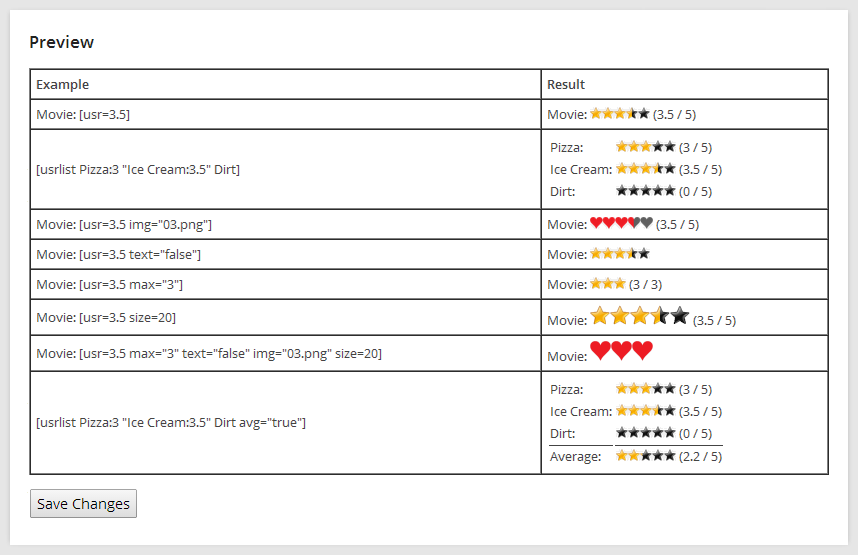
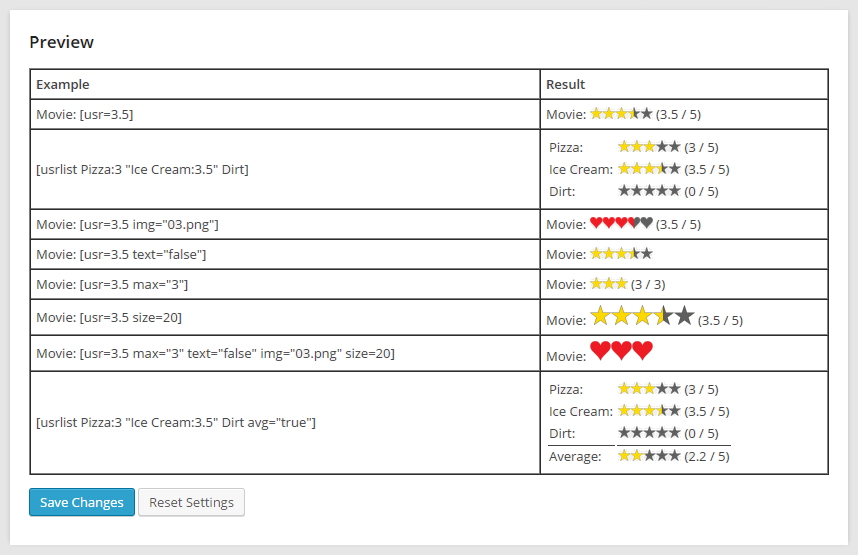
- Proofed that the plugin works with WP 4.0 - Updated locale files and translation document - Updated admin panel
git-svn-id: https://plugins.svn.wordpress.org/universal-star-rating/trunk@1018353 b8457f37-d9ea-0310-8a92-e5e31aec5664

diff --git a/universal-star-rating.php b/universal-star-rating.php
@@ -4,7 +4,7 @@
 Plugin Name: Universal Star Rating
 Plugin URI: http://www.cizero.de/?p=1142
 Description: Adds <code>[usr=10.0]</code> and <code>[usrlist NAME:RATING "ANOTHER NAME:RATING" (...)]</code> shortcode for inserting universal star ratings.
-Version: 1.9.0
+Version: 1.9.1
 Author: Mike Wigge
 Author URI: http://cizero.de
 License: GPL3
@@ -32,6 +32,7 @@ License: GPL3
   - Add some more GFXs
   - Sort GFXs by type
   - Add a Button to the WYSIWYG editor to add a rating to the post
+  - Make language selector dynamic -> cut $usrLocale from $usrLocales to do so
 	
 */
 
@@ -42,13 +43,13 @@ License: GPL3
 //                                                                            //
 //############################################################################//
 
-
 //Including locale files
-include('includes/locales/locale.en');
-include('includes/locales/locale.de');
-include('includes/locales/locale.fr');
-include('includes/locales/locale.it');
-include('includes/locales/locale.es');
+$usrLocales = scandir('../wp-content/plugins/universal-star-rating/includes/locales/');
+foreach($usrLocales as $usrLocale) {
+	if($usrLocale != "." && $usrLocale != ".." && $usrLocale != "locale.temp"){
+		include('includes/locales/'.$usrLocale);
+	}
+}
 
 //Define used names
 $usrPluginName = __("Universal Star Rating", 'universal-star-rating');
@@ -79,7 +80,7 @@ include('includes/shortcodes.php');
 //############################################################################//
 
 //Register options
-add_option('usrVersion', '1.8.0', '', 'yes');
+add_option('usrVersion', '1.9.0', '', 'yes');
 add_option('usrLang', 'en', '', 'yes');
 add_option('usrStarSize', '12', '', 'yes');
 add_option('usrMaxStars', '5', '', 'yes');
@@ -127,53 +128,35 @@ add_action('admin_menu', 'addUsrOptionPage');
 function usrOptionsPage() {
   //globals
   global $MESSAGES;
-  
+	if (isset($_POST['usrOptionsReset'])) {
+		$usrLang = 'en';
+		$usrStarSize = 12;
+		$usrMaxStars = 5;
+		$usrStarText = 'true';
+		$usrCalcAverage = 'false';
+		$usrPermitShortcodedComments = 'false';
+		$usrSchemaOrg = 'false';
+		$usrCustomImagesFolder = 'cusri';
+		$usrStarImage = '01.png';
+		updateUSRSettings($usrLang, $usrStarSize, $usrMaxStars, $usrStarText, $usrCalcAverage, $usrPermitShortcodedComments, $usrSchemaOrg, $usrCustomImagesFolder, $usrStarImage);
+	
+		//Tell user that options are updated
+		echo '<div class="updated fade"><p><strong>' . __($MESSAGES['INFO']['SettingsUpdated']['en'], "universal-star-rating") . '</strong></p></div>';
+	}
 	if (isset($_POST['usrOptionsUpdate'])) {
 		
-		//Update user language
 		$usrLang = $_POST["usrLang"];
-		update_option("usrLang", $usrLang);
+		$usrStarSize = $_POST["usrStarSize"];
+		$usrMaxStars = $_POST["usrMaxStars"];
+		$usrStarText = $_POST["usrStarText"];
+		$usrCalcAverage = $_POST["usrCalcAverage"];
+		$usrPermitShortcodedComments = $_POST["usrPermitShortcodedComments"];
+		$usrSchemaOrg = $_POST["usrSchemaOrg"];
+		$usrCustomImagesFolder = $_POST["usrCustomImagesFolder"];
+		$usrStarImage = $_POST["usrStarImage"];
 		
-		//Update star size
-    $usrStarSize = str_replace( ',', '.', $_POST["usrStarSize"]);
-    if(is_numeric($usrStarSize)){
-		  update_option("usrStarSize", $usrStarSize);
-    } else {
-      echo $MESSAGES['ERROR']['StarSizeNotNumeric'][$usrLang];
-    }
-    
-    //Update max stars
-		$usrMaxStars = intval($_POST["usrMaxStars"]);
-    if($usrMaxStars < 1){$usrMaxStars=1;} 
-    update_option("usrMaxStars", $usrMaxStars);
-
-    //Update text output
-    $usrStarText = $_POST["usrStarText"];
-    update_option("usrStarText", $usrStarText);
-    
-    //Update star image
-    $usrStarImage = $_POST["usrStarImage"];
-    update_option("usrStarImage", $usrStarImage);
-    
-    //Update average rating calculation
-    $usrCalcAverage = $_POST["usrCalcAverage"];
-    update_option("usrCalcAverage", $usrCalcAverage);
-    
-    //Update permission to use shortcodes inside comments
-    $usrPermitShortcodedComments = $_POST["usrPermitShortcodedComments"];
-    update_option("usrPermitShortcodedComments", $usrPermitShortcodedComments);
-    if ($usrPermitShortcodedComments == "true"){
-      permitShortcodedComments();
-    }
-    
-    //Update permission to use Schema.org SEO
-    $usrSchemaOrg = $_POST["usrSchemaOrg"];
-    update_option("usrSchemaOrg", $usrSchemaOrg);
-    
-    //Update CUSRI folder
-    $usrCustomImagesFolder = $_POST["usrCustomImagesFolder"];
-    update_option("usrCustomImagesFolder", $usrCustomImagesFolder);
-    
+		updateUSRSettings($usrLang, $usrStarSize, $usrMaxStars, $usrStarText, $usrCalcAverage, $usrPermitShortcodedComments, $usrSchemaOrg, $usrCustomImagesFolder, $usrStarImage);
+		
 		//Tell user that options are updated
 		echo '<div class="updated fade"><p><strong>' . __($MESSAGES['INFO']['SettingsUpdated'][$usrLang], "universal-star-rating") . '</strong></p></div>';
 	}
@@ -387,10 +370,15 @@ function usrOptionsPage() {
           </p>
           
           <?php if ( function_exists('settings_fields') ) settings_fields('rating_settings'); ?>
-					<input type='submit' name='usrOptionsUpdate' value='<?php _e($SETTINGS['GLOBAL']['SubmitButton'][$usrLang], 'universal_star_rating'); ?>' />
-
+					<input type='submit' name='usrOptionsUpdate' class="button-primary" value='<?php _e($SETTINGS['GLOBAL']['SubmitButton'][$usrLang], 'universal_star_rating'); ?>' />
+					<input type='submit' name='usrOptionsReset' class="button" value='<?php _e($SETTINGS['GLOBAL']['ResetButton'][$usrLang], 'universal_star_rating'); ?>' />
 				</form>				
 			</div>
+			<?php
+			#<div id="usrFooter" class="wrap">
+			#Commercial Footer
+			#</div>
+			?>
 		</div>
 
 <?php

diff --git a/includes/helper_functions.php b/includes/helper_functions.php
@@ -127,14 +127,14 @@ function getImageString($ratingValue, $usrStarImage, $usrMaxStars, $usrStarText,
     //Set image
     $imageString .= '<img class="usr" src="'.content_url().'/plugins/universal-star-rating/includes/stars.php?img='.$usrStarImage.'&amp;px='.$usrStarSize.'&amp;max='.$usrMaxStars.'&amp;rat='.$ratingValue;
     if($usrCustomImagesFolder != "")
-      $imageString .= '&folder='.$usrCustomImagesFolder;
+      $imageString .= '&amp;folder='.$usrCustomImagesFolder;
     $imageString .= '" style="height: '.$usrStarSize.'px !important;" alt="'.$ratingValue.' Stars" />';
   //If it is not a preview
   }else{
     //Set image string
     $imageString .= '<img class="usr" src="'.content_url().'/plugins/universal-star-rating/includes/stars.php?img='.$usrStarImage.'&amp;px='.$usrStarSize.'&amp;max='.$usrMaxStars.'&amp;rat='.$ratingValue;
     if($usrCustomImagesFolder != "")
-      $imageString .= '&folder='.$usrCustomImagesFolder;
+      $imageString .= '&amp;folder='.$usrCustomImagesFolder;
     $imageString .= '"';
     //If star size is not the default there has to be a style attribute...
     if($usrStarSize != get_option('usrStarSize')){
@@ -238,7 +238,47 @@ function proofCUSRIStructure($imgFolder){
       mkdir($imgFolder."/".$value);
     }
   }
+}
 
+//Function to update the plugins settings
+function updateUSRSettings($usrLang, $usrStarSize, $usrMaxStars, $usrStarText, $usrCalcAverage, $usrPermitShortcodedComments, $usrSchemaOrg, $usrCustomImagesFolder, $usrStarImage){
+		
+		//Update user language
+		update_option("usrLang", $usrLang);
+		
+		//Update star size		
+		$usrStarSize = str_replace( ',', '.', $usrStarSize);
+		if(is_numeric($usrStarSize)){
+			update_option("usrStarSize", $usrStarSize);
+		} else {
+			echo $MESSAGES['ERROR']['StarSizeNotNumeric'][$usrLang];
+		}
+		
+		//Update max stars
+		$usrMaxStars = intval($usrMaxStars);
+		if($usrMaxStars < 1){$usrMaxStars=1;} 
+		update_option("usrMaxStars", $usrMaxStars);
+
+		//Update text output
+		update_option("usrStarText", $usrStarText);
+		
+		//Update average rating calculation
+		update_option("usrCalcAverage", $usrCalcAverage);
+		
+		//Update permission to use shortcodes inside comments
+		update_option("usrPermitShortcodedComments", $usrPermitShortcodedComments);
+		if ($usrPermitShortcodedComments == "true"){
+			permitShortcodedComments();
+		}
+		
+		//Update permission to use Schema.org SEO
+		update_option("usrSchemaOrg", $usrSchemaOrg);
+		
+		//Update CUSRI folder
+		update_option("usrCustomImagesFolder", $usrCustomImagesFolder);
+    
+		//Update star image
+		update_option("usrStarImage", $usrStarImage);
 }
 
 ?>

diff --git a/includes/usr_style.php b/includes/usr_style.php
@@ -12,17 +12,28 @@ if(isset($_GET['px'])){
 ?>
 
 img.usr {
-  padding:  0 !important;
-  margin:   0 !important;
-  border:   none !important;
-  display:  inline !important;
-  height:   <?php echo $usrStarSize; ?>px !important;
+	padding:  0 !important;
+	margin:   0 !important;
+	border:   none !important;
+	display:  inline !important;
+	height:   <?php echo $usrStarSize; ?>px !important;
 }
 
 table.usr {
-  border: none;
+	border: none;
 }
 
 span.usr, div.usr {
-  display: inline !important;
+	display: inline !important;
+}
+
+#usrFooter {
+	text-align: center;
+	color: #888888;
+	background-color: #FFFFFC;
+	padding: 5px 0 0;
+	margin-top: 12px;
+	border-style: solid;
+	border-color: #dadada;
+	border-width: 1px 0;
 }
